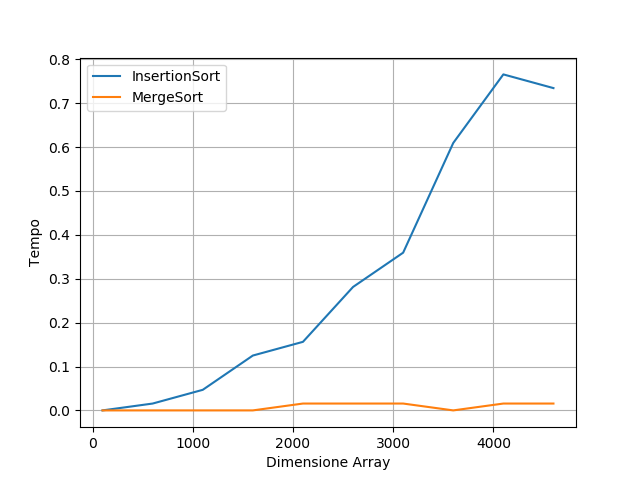
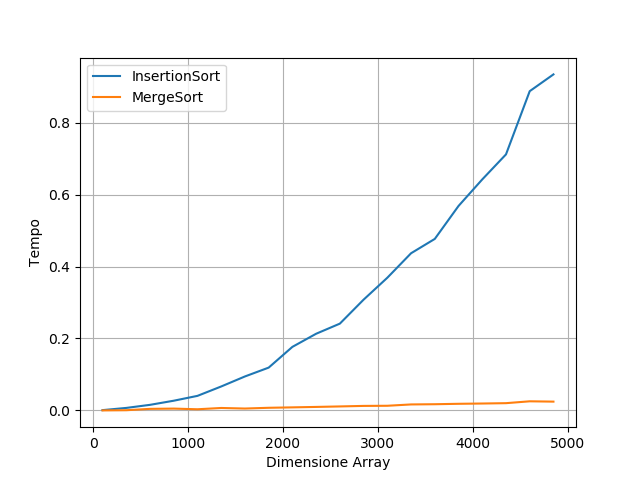
End.

diff --git a/Main.py b/Main.py
@@ -5,51 +5,78 @@ import matplotlib.pyplot as plt
 import MakeArray
 
 
-tempoTotale = time.time()
-insertionTimeMigliore = []
+finalInsertionTime = []
+finalWorstInsertionTime = []
+finalMergeSort = []
+finalReverseMergeSort = []
+
 insertionTimePeggiore = []
 insertionTime = []
+
 mergeSortTime = []
 mergeSortTimeReverse = []
-t = []
+
+nodeCounter = []
 dimension = 5000
-for j in range(100, dimension, 500):
-    print("Parliamo di ", j, "/", dimension, "%", j/50, end=' e ci mette ')
-    tempoTempo = time.time()
-    A = []
-    A = MakeArray.randomArray(A, j)
-    B = A[:]
-    tempoTempo = time.time()-tempoTempo
-    print(tempoTempo)
+repetition = 10
+step = -1
+for j in range(100, dimension, 250):
+    step += 1
+    print("Parliamo di ", j, "/", dimension, "%", j*100/dimension)
+    insertionTimePeggiore = []
+    insertionTime = []
+    mergeSortTime = []
+    mergeSortTimeReverse = []
 
-    # InsertionSort medio
-    startTime = time.time()
-    ins.insertionsort(A)
-    insertionTime.append(time.time() - startTime)
+    for i in range(repetition):
+        A = []
+        A = MakeArray.randomArray(A, j)
+        B = A[:]
 
-    # Peggior InsertionSort
-    A = MakeArray.casoPeggioreInsertion(A)
-    startTime = time.time()
-    ins.insertionsort(A)
-    insertionTimePeggiore.append(time.time() - startTime)
+        # InsertionSort medio
+        startTime = time.time()
+        ins.insertionsort(A)
+        insertionTime.append(time.time() - startTime)
 
-    # MergeSort medio
-    startTime = time.time()
-    mrg.mergesort(B, 1, len(B))
-    mergeSortTime.append(time.time() - startTime)
+        # MergeSort medio
+        startTime = time.time()
+        mrg.mergesort(B, 1, len(B))
+        mergeSortTime.append(time.time() - startTime)
 
-    # MergeSort peggiore
-    startTime = time.time()
-    mrg.mergesort(A, 1, len(A))
-    mergeSortTimeReverse.append(time.time() - startTime)
+        A = MakeArray.casoPeggioreInsertion(A)
+        B = A[:]
 
-    t.append(j)
+        # Peggior InsertionSort
+        startTime = time.time()
+        ins.insertionsort(A)
+        insertionTimePeggiore.append(time.time() - startTime)
 
-#t = np.arange(0, len(mergeSortTime))
+        # MergeSort reverse
+        startTime = time.time()
+        mrg.mergesort(B, 1, len(B))
+        mergeSortTimeReverse.append(time.time() - startTime)
+
+    tempInsTime = 0
+    tempWorstInsTime = 0
+    tempMergeSortTime = 0
+    tempReverseMergeSortTime = 0
+    for w in range(repetition):
+        tempInsTime += insertionTime[w]
+        tempWorstInsTime += insertionTimePeggiore[w]
+        tempMergeSortTime += mergeSortTime[w]
+        tempReverseMergeSortTime += mergeSortTimeReverse[w]
+    finalInsertionTime.append(tempInsTime/repetition)
+    finalWorstInsertionTime.append(tempWorstInsTime/repetition)
+    finalMergeSort.append(tempMergeSortTime/repetition)
+    finalReverseMergeSort.append(tempReverseMergeSortTime/repetition)
+
+    nodeCounter.append(j)
+# t = np.arange(0, len(mergeSortTime))
 print(100, "%!!!!!!!")
+
 # WorstCase
-plt.plot(t, insertionTimePeggiore, label="InsertionSort")
-plt.plot(t, mergeSortTimeReverse, label="MergeSort")
+plt.plot(nodeCounter, finalWorstInsertionTime, label="InsertionSort worst")
+plt.plot(nodeCounter, finalReverseMergeSort, label="MergeSort with the same data")
 plt.legend()
 plt.xlabel('Dimensione Array')
 plt.ylabel('Tempo')
@@ -59,8 +86,8 @@ plt.savefig('Caso peggiore.png', dpi=100)
 plt.show()
 
 # Awerage case
-plt.plot(t, insertionTime, label="InsertionSort")
-plt.plot(t, mergeSortTime, label="MergeSort")
+plt.plot(nodeCounter, finalInsertionTime, label="InsertionSort")
+plt.plot(nodeCounter, finalMergeSort, label="MergeSort")
 plt.legend()
 plt.xlabel('Dimensione Array')
 plt.ylabel('Tempo')
@@ -68,5 +95,3 @@ plt.grid()
 plt.draw()
 plt.savefig('Caso medio.png', dpi=100)
 plt.show()
-
-print("Ci abbiamo impiegato ", time.time() - tempoTotale)
